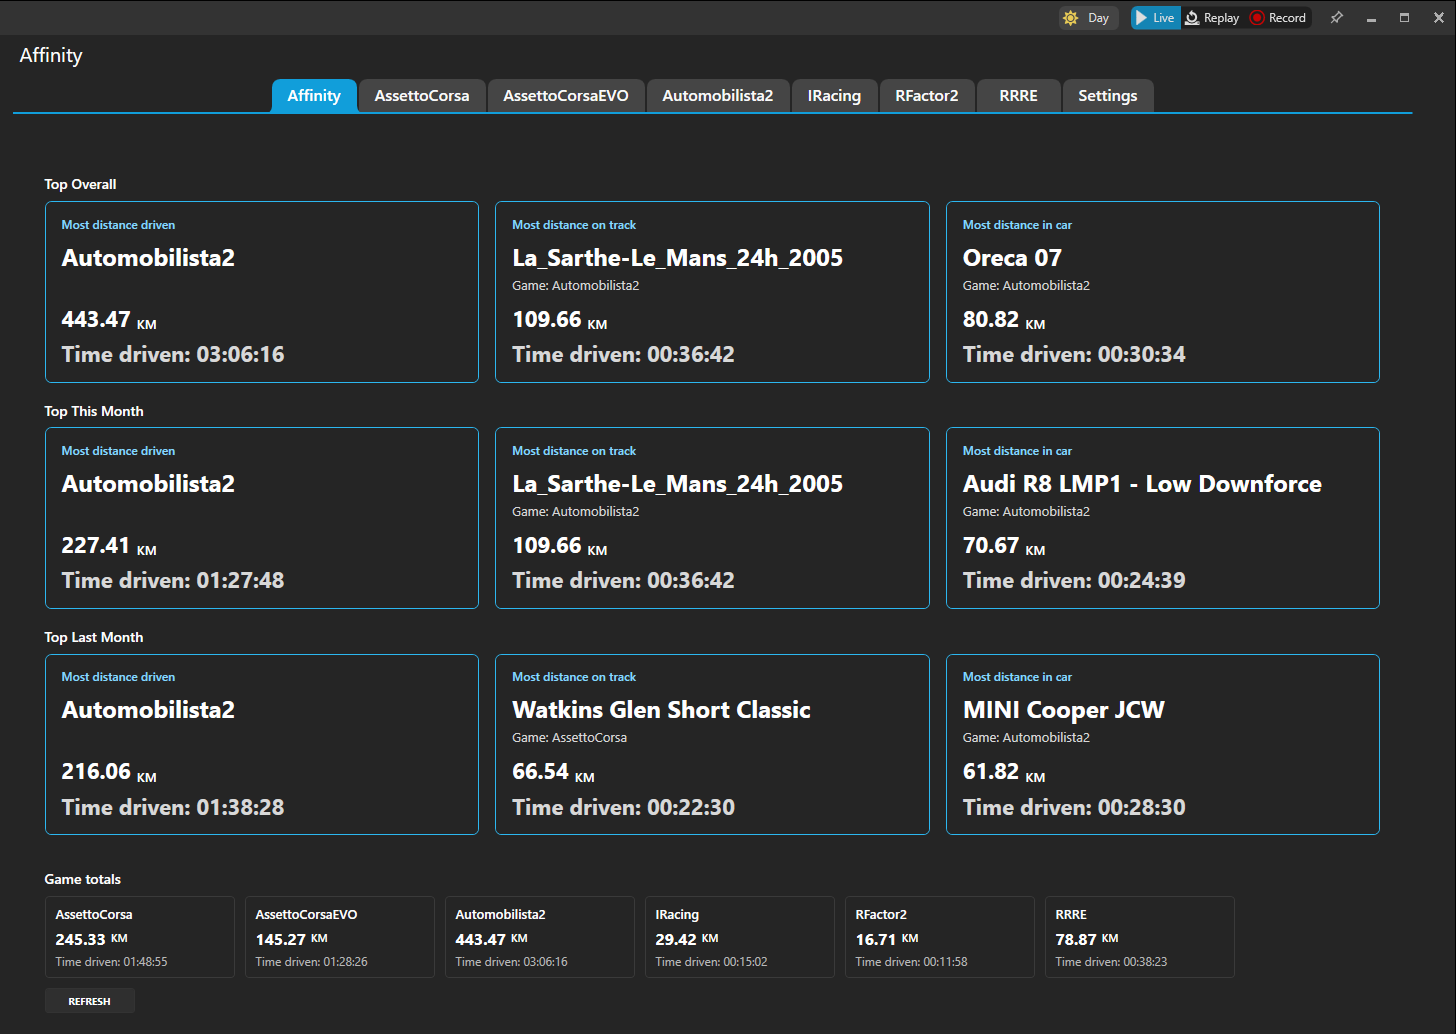
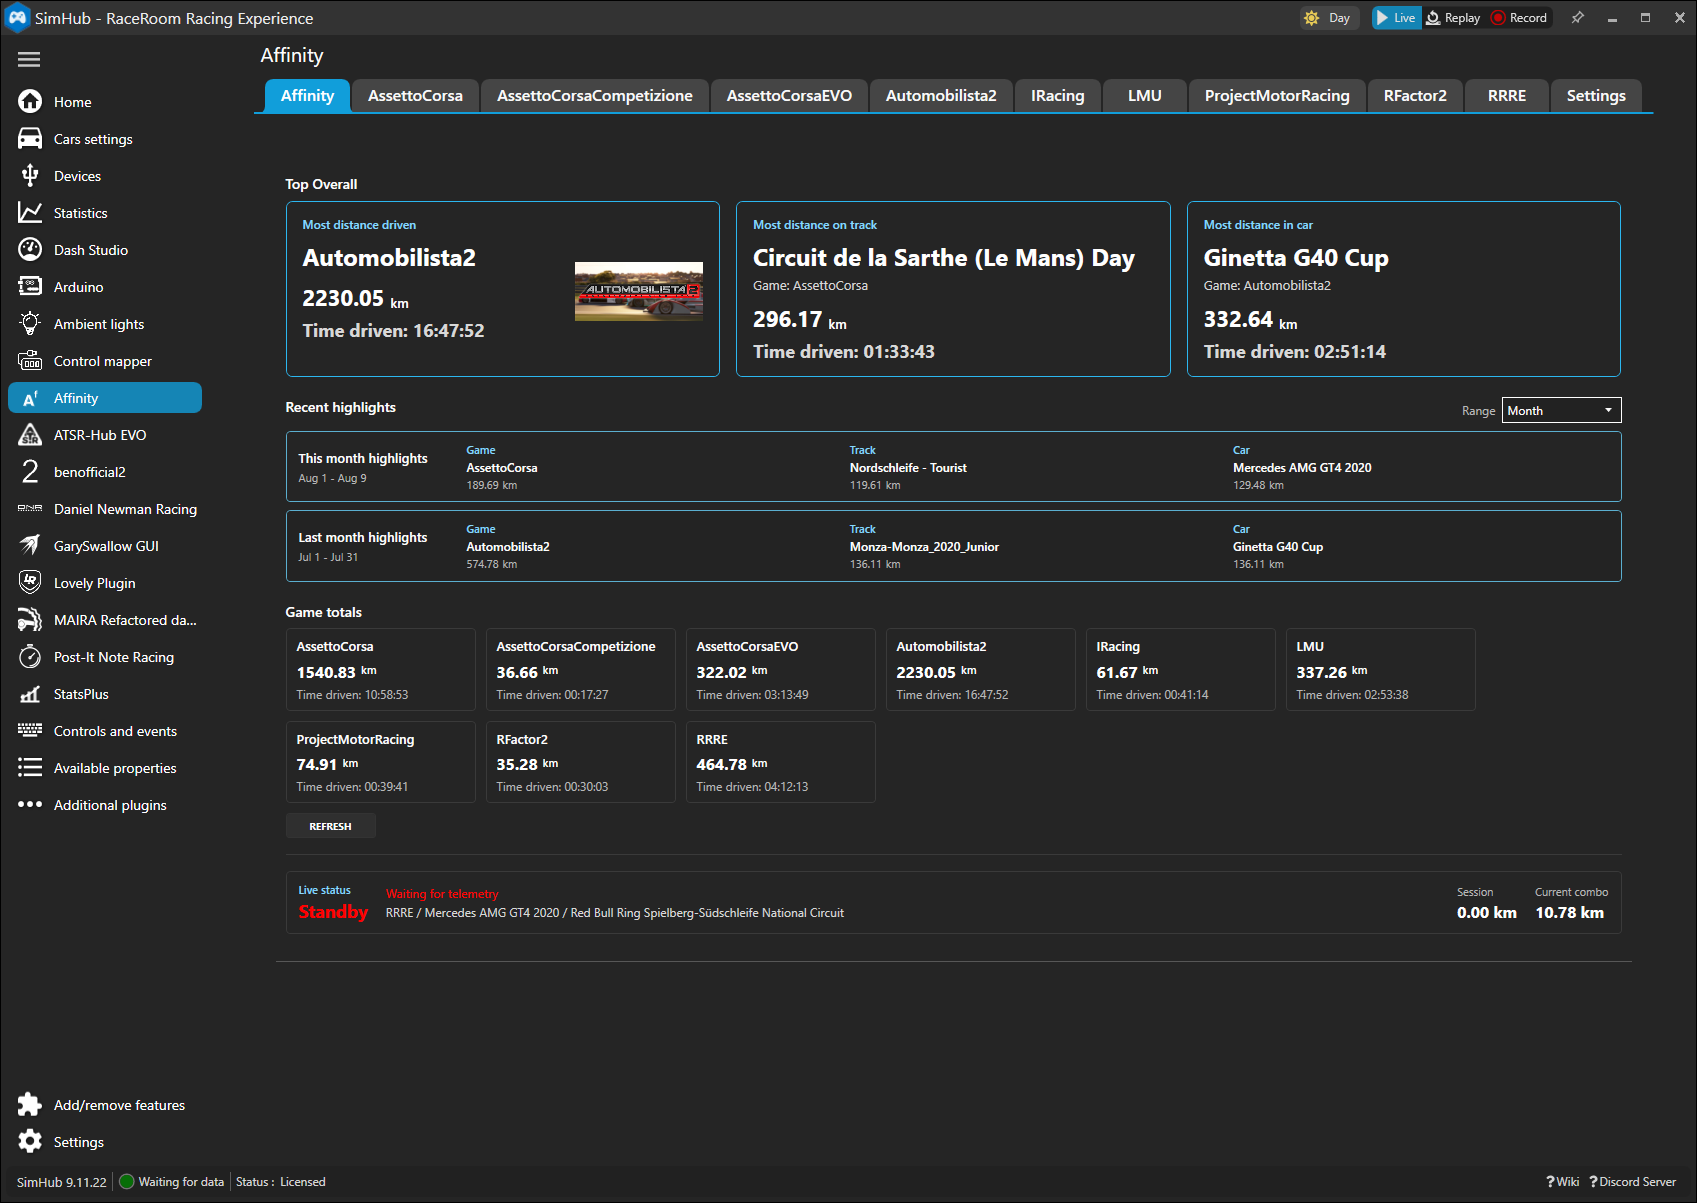
patch: refresh GitHub Pages site

diff --git a/site/index.html b/site/index.html
@@ -29,8 +29,8 @@
                     <p class="eyebrow">SimHub plugin</p>
                     <h1>See what you have actually driven over time.</h1>
                     <p class="lede">
-                        Affinity tracks cumulative driving distance and driving time across multiple racing sims,
-                        then turns those totals into clean, browsable summaries inside SimHub.
+                        Affinity tracks cumulative distance and driving time across multiple racing sims,
+                        then turns your long-term seat time into clean, browsable SimHub summaries.
                     </p>
                     <div class="cta-row">
                         <a class="button button-primary" href="https://github.com/mnapoleon/AffinitySimHub/releases/latest">Download Latest Release</a>
@@ -41,7 +41,7 @@
                         <li>Persistent totals by game, car, and track</li>
                         <li>Featured cross-game summaries and per-game drilldown tabs</li>
                         <li>Per-game period, sort, limit, and cross-filter controls</li>
-                        <li>Optional telemetry debug logging for tricky session analysis</li>
+                        <li>Optional per-game telemetry debug logging for investigation work</li>
                     </ul>
                 </div>
 
@@ -102,15 +102,15 @@
                 <div class="feature-grid">
                     <article class="feature-card">
                         <h3>Cumulative history</h3>
-                        <p>Keep long-lived totals across your sims so you can answer where you spend your real driving time.</p>
+                        <p>Keep long-lived distance and time totals across your sims so you can answer where you spend your real driving time.</p>
                     </article>
                     <article class="feature-card">
-                        <h3>Breakdowns with filters</h3>
-                        <p>Browse totals by title, then combine period, sort, and result-limit controls with track and car cross-filtering to quickly see which combinations define your habits.</p>
+                        <h3>Per-game drilldowns</h3>
+                        <p>Browse each title with period, sort, result-limit, and track/car cross-filter controls for focused usage breakdowns.</p>
                     </article>
                     <article class="feature-card">
-                        <h3>Cross-game highlight cards</h3>
-                        <p>See your most-driven game, track, and car at a glance from Affinity’s overview tab.</p>
+                        <h3>Cross-game highlights</h3>
+                        <p>See your most-driven game, track, and car at a glance from Affinity's overview tab.</p>
                     </article>
                 </div>
             </section>
@@ -127,15 +127,15 @@
                 <div class="screenshot-grid">
                     <figure class="shot-card">
                         <img class="shot-image" src="assets/screenshots/affinity_tab.png" alt="Affinity overview tab showing featured summary cards and game totals">
-                        <figcaption>The Affinity overview tab highlights your top game, track, and car alongside all-game totals.</figcaption>
+                        <figcaption>The Affinity overview tab highlights top game, track, and car summaries alongside all-game distance and time totals.</figcaption>
                     </figure>
                     <figure class="shot-card">
                         <img class="shot-image" src="assets/screenshots/game_tab.png" alt="Automobilista 2 game tab showing top track, top car, and detailed tables">
-                        <figcaption>Each game tab drills into track and car usage with top summaries, period and sort controls, result limits, and track/car cross-filtering.</figcaption>
+                        <figcaption>Each game tab drills into track and car usage with top summaries, period and sort controls, result limits, and cross-filtering.</figcaption>
                     </figure>
                     <figure class="shot-card">
                         <img class="shot-image" src="assets/screenshots/settings-tab-v2.png" alt="Affinity settings tab showing distance units and telemetry debug logging options">
-                        <figcaption>The settings tab covers distance units plus per-game telemetry debug logging controls for investigation work.</figcaption>
+                        <figcaption>The settings tab covers distance units plus per-game telemetry debug logging controls for investigating simulator-specific behavior.</figcaption>
                     </figure>
                 </div>
             </section>
@@ -144,13 +144,19 @@
                 <div class="section-heading">
                     <p class="eyebrow">Supported today</p>
                     <h2>Current sim support</h2>
+                    <p>
+                        Affinity normalizes common game names and aliases, including short forms such as
+                        <code>LMU</code>, <code>R3E</code>, and <code>RRRE</code>.
+                    </p>
                 </div>
                 <div class="game-list">
                     <span>Assetto Corsa</span>
+                    <span>Assetto Corsa Competizione</span>
                     <span>Assetto Corsa EVO</span>
                     <span>Automobilista 2</span>
                     <span>iRacing</span>
                     <span>Le Mans Ultimate</span>
+                    <span>Project Motor Racing</span>
                     <span>rFactor 2</span>
                     <span>RaceRoom Racing Experience</span>
                 </div>
@@ -164,7 +170,7 @@
                 <div class="install-grid">
                     <div class="install-card">
                         <h3>1. Download the latest release</h3>
-                        <p>Grab the newest ZIP package from GitHub Releases.</p>
+                        <p>Grab the newest ZIP package and checksum from GitHub Releases.</p>
                         <a class="text-link" href="https://github.com/mnapoleon/AffinitySimHub/releases/latest">Open latest release</a>
                     </div>
                     <div class="install-card">
@@ -173,7 +179,7 @@
                     </div>
                     <div class="install-card">
                         <h3>3. Extract into SimHub</h3>
-                        <p>Copy the release payload into your SimHub installation folder, then restart SimHub.</p>
+                        <p>Extract the plugin files into your SimHub installation folder, then restart SimHub.</p>
                     </div>
                 </div>
             </section>
@@ -181,6 +187,9 @@
 
         <footer class="footer">
             <p>Affinity is an open-source SimHub plugin for long-term driving history and telemetry-aware cumulative tracking.</p>
+            <div class="support-widget">
+                <script type="text/javascript" src="https://cdnjs.buymeacoffee.com/1.0.0/button.prod.min.js" data-name="bmc-button" data-slug="mnapoleon" data-color="#5F7FFF" data-emoji=""  data-font="Cookie" data-text="Buy me a coffee" data-outline-color="#000000" data-font-color="#ffffff" data-coffee-color="#FFDD00" ></script>
+            </div>
             <div class="footer-links">
                 <a href="https://github.com/mnapoleon/AffinitySimHub">Source</a>
                 <a href="https://github.com/mnapoleon/AffinitySimHub/releases">Releases</a>

diff --git a/site/styles.css b/site/styles.css
@@ -405,6 +405,11 @@ code {
     color: var(--muted);
 }
 
+.support-widget {
+    display: flex;
+    align-items: center;
+}
+
 @media (max-width: 980px) {
     .hero-grid,
     .feature-grid,

diff --git a/docs/superpowers/plans/2026-08-09-github-pages-feature-refresh.md b/docs/superpowers/plans/2026-08-09-github-pages-feature-refresh.md
@@ -1,0 +1,99 @@
+# GitHub Pages Feature Refresh Implementation Plan
+
+> **For agentic workers:** REQUIRED SUB-SKILL: Use superpowers:subagent-driven-development (recommended) or superpowers:executing-plans to implement this plan task-by-task. Steps use checkbox (`- [ ]`) syntax for tracking.
+
+**Goal:** Refresh the static GitHub Pages site so it reflects Affinity's current plugin features and updated screenshots.
+
+**Architecture:** Keep the existing static `site/index.html` plus `site/styles.css` architecture. Update product-focused copy without changing the screenshot assets or redesigning the page.
+
+**Tech Stack:** Static HTML, CSS, local browser rendering, GitHub Pages.
+
+## Global Constraints
+
+- Preserve the current one-page static site structure and visual direction.
+- Keep the existing screenshot assets under `site/assets/screenshots/`; do not overwrite the modified PNG files.
+- Surface current features: cumulative distance, cumulative driving time, per-game drilldowns, cross-game highlights, period/sort/limit controls, track/car cross-filtering, and optional telemetry debug logging.
+- Mention optional per-game telemetry debug logging as an investigation feature.
+- List current supported games: Assetto Corsa, Assetto Corsa Competizione, Assetto Corsa EVO, Automobilista 2, iRacing, Le Mans Ultimate, Project Motor Racing, rFactor 2, and RaceRoom Racing Experience.
+- Do not add a dedicated replay/noise section; that reads like a bug-fix note instead of a product feature.
+- Verify the static page without adding a build system.
+
+---
+
+### Task 1: Refresh Site Content
+
+**Files:**
+- Modify: `site/index.html`
+- Modify if needed: `site/styles.css`
+- Do not modify: `site/assets/screenshots/affinity_tab.png`
+- Do not modify: `site/assets/screenshots/game_tab.png`
+- Do not modify: `site/assets/screenshots/settings-tab-v2.png`
+
+**Interfaces:**
+- Consumes: existing static page structure and screenshot file paths.
+- Produces: updated GitHub Pages content that renders without a build step.
+
+- [ ] **Step 1: Update navigation and hero copy**
+
+In `site/index.html`, add a navigation link to the new telemetry section:
+
+```html
+<a href="#telemetry">Telemetry Guards</a>
+```
+
+Keep the hero layout, but update the lede and hero bullets so they mention:
+
+- cumulative distance and driving time
+- per-game drilldowns
+- optional per-game telemetry debug logging
+- latest release/install CTA remains unchanged
+
+- [ ] **Step 2: Refresh the feature cards**
+
+In the `#features` section of `site/index.html`, keep three cards but update them to cover:
+
+1. cumulative history
+2. per-game drilldowns and filters
+3. cross-game highlights
+
+Use concise landing-page copy, not technical implementation prose.
+
+- [ ] **Step 3: Refresh screenshots and supported-game copy**
+
+In `site/index.html`:
+
+- Keep the three existing screenshot image paths unchanged.
+- Update captions to match current screenshots and features.
+- Confirm the supported-game chips include `Assetto Corsa Competizione`, `Le Mans Ultimate`, and `Project Motor Racing`.
+- Update install copy to say releases include the plugin files and checksum, without adding extra install steps.
+
+- [ ] **Step 4: Verify static references**
+
+Run:
+
+```powershell
+Select-String -Path .\site\index.html -Pattern 'assets/screenshots/affinity_tab.png|assets/screenshots/game_tab.png|assets/screenshots/settings-tab-v2.png|assets/affinity-icon-24.png|Assetto Corsa Competizione|Le Mans Ultimate|Project Motor Racing'
+```
+
+Expected: all image paths and the supported-game chips are present.
+
+- [ ] **Step 5: Render locally**
+
+Because the site is static, open or serve `site/index.html` locally and inspect:
+
+```powershell
+Start-Process .\site\index.html
+```
+
+Expected: page opens in a browser, updated copy is visible, screenshots render, and no obvious text overlap appears on desktop width.
+
+- [ ] **Step 6: Review diff**
+
+Run:
+
+```powershell
+git diff -- site/index.html site/styles.css docs/superpowers/plans/2026-08-09-github-pages-feature-refresh.md
+git status --short
+```
+
+Expected: site content/CSS and the plan are modified; screenshot PNGs remain as pre-existing user changes; no unrelated files are touched.

diff --git a/docs/superpowers/specs/2026-08-09-github-pages-feature-refresh-design.md b/docs/superpowers/specs/2026-08-09-github-pages-feature-refresh-design.md
@@ -10,7 +10,6 @@ Refresh the static GitHub Pages site so it matches the current Affinity plugin f
 
 - Preserve the current one-page static site structure and visual direction.
 - Update landing-page copy for the current cumulative distance and used-time features.
-- Add a compact section describing telemetry-aware tracking protections, including replay and inactive-sample filtering.
 - Refresh supported-game and install/release wording for the current plugin state.
 - Keep the existing screenshot assets and captions aligned with the new screenshots.
 
@@ -24,15 +23,16 @@ Key points to surface:
 - Cumulative distance and driving time.
 - Overview highlights for top game, track, and car.
 - Per-game drilldowns with period, sort, result-limit, and track/car cross-filter controls.
-- Telemetry safeguards for replay, garage, spectator, session reset, and line-wrap edge cases.
-- Current supported games: Assetto Corsa, Assetto Corsa EVO, Automobilista 2, iRacing, Le Mans Ultimate, rFactor 2, and RaceRoom Racing Experience.
+- Optional per-game telemetry debug logging for investigation work.
+- Current supported games: Assetto Corsa, Assetto Corsa Competizione, Assetto Corsa EVO, Automobilista 2, iRacing, Le Mans Ultimate, Project Motor Racing, rFactor 2, and RaceRoom Racing Experience.
 
 ## Implementation Shape
 
-- Edit `site/index.html` for copy and one new compact informational section.
-- Edit `site/styles.css` only if the new section needs a small reusable layout rule.
+- Edit `site/index.html` for product-focused copy updates.
+- Edit `site/styles.css` only if the refreshed copy needs small layout support.
 - Do not redesign the hero or screenshot layout.
 - Do not overwrite the modified screenshot PNG files.
+- Do not add a dedicated replay/noise section; that reads like a bug-fix note instead of a product feature.
 
 ## Verification
 
